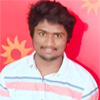
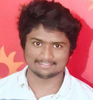
Updated founder image, port and some UI.

diff --git a/app.js b/app.js
@@ -37,6 +37,6 @@ app.get("/connect", (req, res) => {
   res.render("connect.ejs", snackMsg);
 });
 
-app.listen(process.env.PORT || 3001, () => {
+app.listen(process.env.PORT || 80, () => {
   wLogger.info(`Server Listening at port `);
 });
